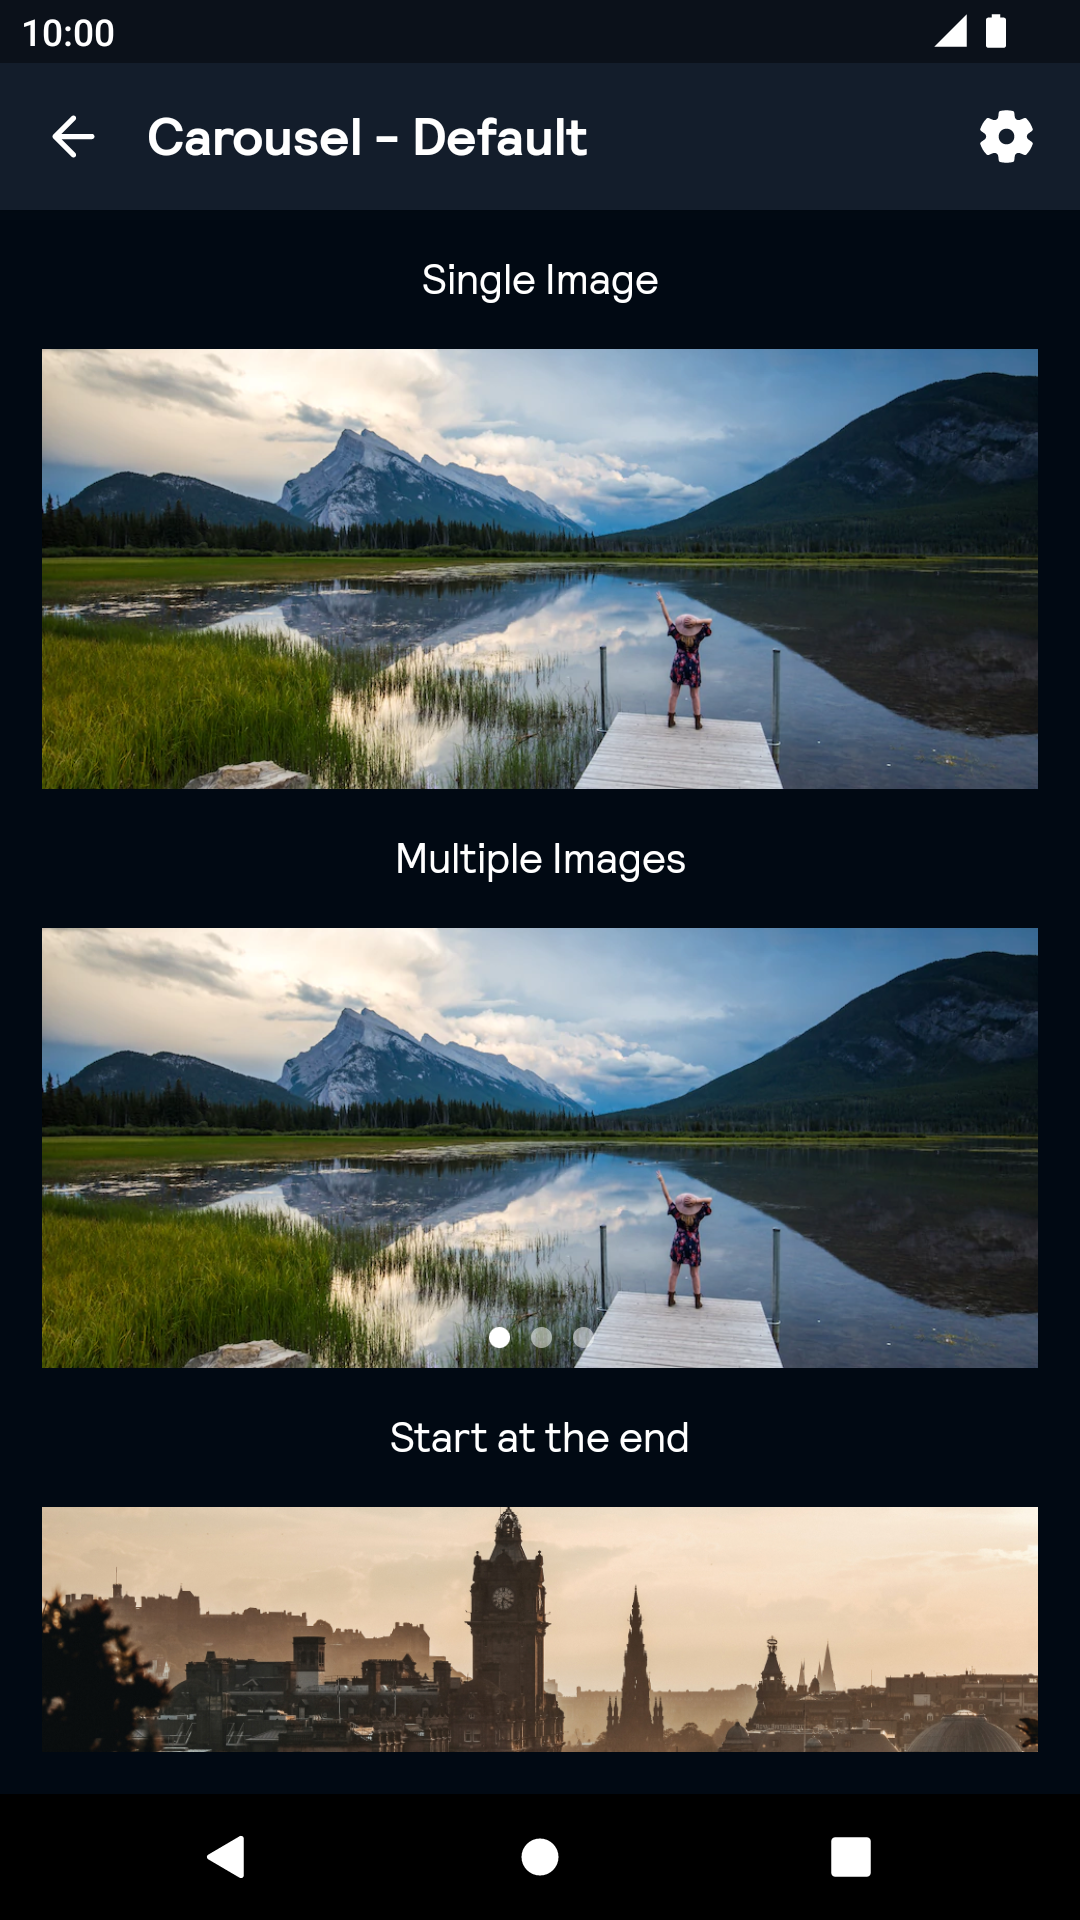
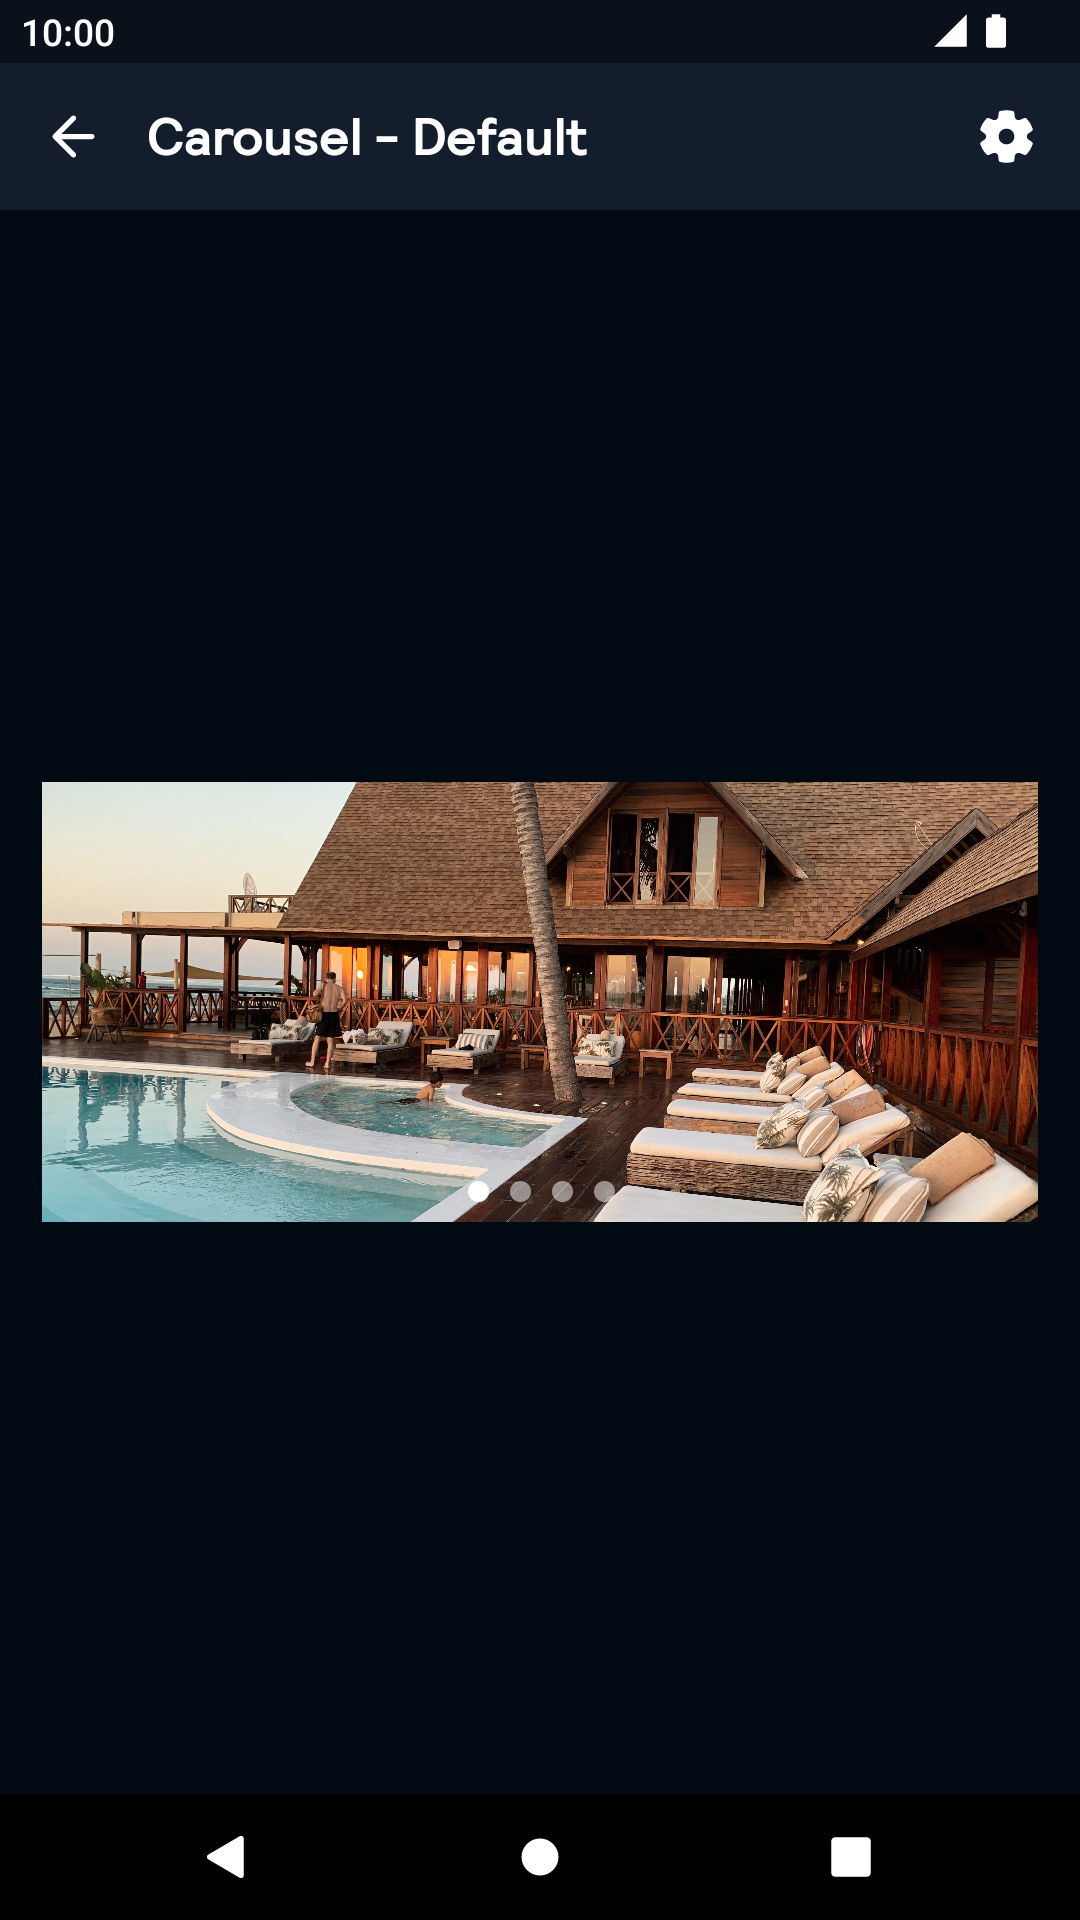
Koa-6107 Update Carousel screenshots for Backpack Android (#1672)
* Add new images for carousel

* Fix image file names

* Remove unnecessary samples

* Update number of total images

* Add images again

* Use new images in story

* Remove text above image

* Center image vertically

* Remove vertical scroll

* Put arguments on separate lines

* Put arguments on separate lines and add trailing commas

* Update screenshots for carousel

* Updated snapshots for 'dm'

* Remove unused strings

* Trigger CI

* Updated snapshots for 'default'

* Trigger CI

---------

diff --git a/app/src/main/java/net/skyscanner/backpack/demo/compose/CarouselStory.kt b/app/src/main/java/net/skyscanner/backpack/demo/compose/CarouselStory.kt
@@ -19,12 +19,11 @@
 package net.skyscanner.backpack.demo.compose
 
 import androidx.compose.foundation.Image
+import androidx.compose.foundation.layout.Arrangement
 import androidx.compose.foundation.layout.Column
 import androidx.compose.foundation.layout.aspectRatio
 import androidx.compose.foundation.layout.fillMaxSize
 import androidx.compose.foundation.layout.padding
-import androidx.compose.foundation.rememberScrollState
-import androidx.compose.foundation.verticalScroll
 import androidx.compose.runtime.Composable
 import androidx.compose.ui.Alignment
 import androidx.compose.ui.Modifier
@@ -49,22 +48,14 @@ fun CarouselStory(
     Column(
         modifier = modifier
             .fillMaxSize()
-            .padding(horizontal = BpkSpacing.Base, vertical = BpkSpacing.Base)
-            .verticalScroll(rememberScrollState()),
+            .padding(
+                horizontal = BpkSpacing.Base,
+                vertical = BpkSpacing.Base,
+            ),
         horizontalAlignment = Alignment.CenterHorizontally,
+        verticalArrangement = Arrangement.Center,
     ) {
-
-        BpkText(text = stringResource(id = R.string.carousel_only_1_item))
-        CarouselSample(totalImages = 1)
-
-        BpkText(text = stringResource(id = R.string.carousel_multiple_items))
-        CarouselSample(totalImages = 3)
-
-        BpkText(text = stringResource(id = R.string.carousel_start_at_different_index))
-        CarouselSample(totalImages = 3, initialImage = 2)
-
-        BpkText(text = stringResource(id = R.string.carousel_image_change_callback))
-        CarouselSample(totalImages = 3, initialImage = 1, showCurrentPageLabel = true)
+        CarouselSample(totalImages = 4)
     }
 }
 
@@ -75,11 +66,17 @@ private fun CarouselSample(
     initialImage: Int = 0,
     showCurrentPageLabel: Boolean = false,
 ) {
-    val pagerState = rememberBpkCarouselState(totalImages = totalImages, initialImage = initialImage)
+    val pagerState = rememberBpkCarouselState(
+        totalImages = totalImages,
+        initialImage = initialImage,
+    )
 
     if (showCurrentPageLabel) {
         BpkText(
-            text = stringResource(R.string.carousel_current_image, pagerState.currentPage),
+            text = stringResource(
+                R.string.carousel_current_image,
+                pagerState.currentPage,
+            ),
             style = BpkTheme.typography.caption,
         )
     }
@@ -94,10 +91,11 @@ private fun CarouselSample(
             modifier = Modifier.fillMaxSize(),
             painter = painterResource(
                 id = when (it) {
-                    0 -> R.drawable.canadian_rockies_canada
-                    1 -> R.drawable.beach
-                    2 -> R.drawable.city
-                    else -> R.drawable.canadian_rockies_canada
+                    0 -> R.drawable.carousel_placeholder_1
+                    1 -> R.drawable.carousel_placeholder_2
+                    2 -> R.drawable.carousel_placeholder_3
+                    3 -> R.drawable.carousel_placeholder_4
+                    else -> R.drawable.carousel_placeholder_1
                 },
             ),
             contentDescription = "Image $it",
